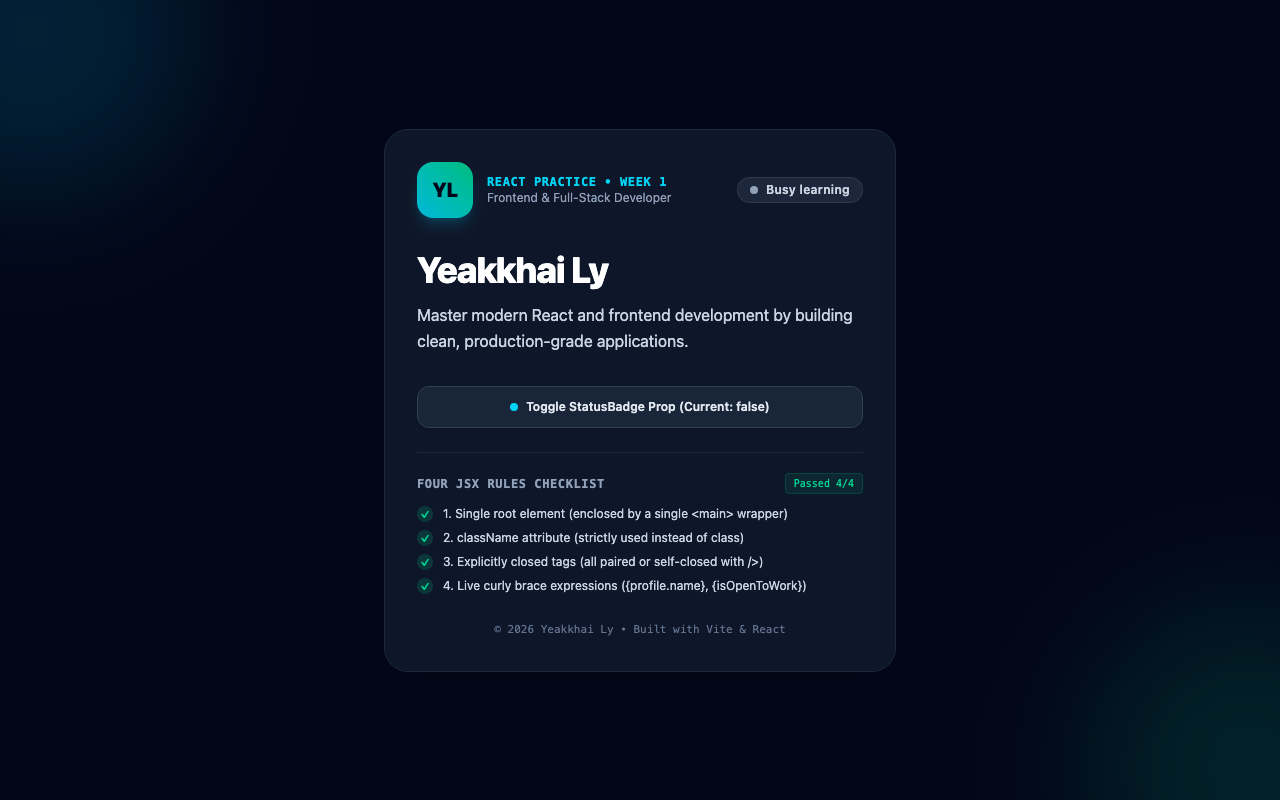
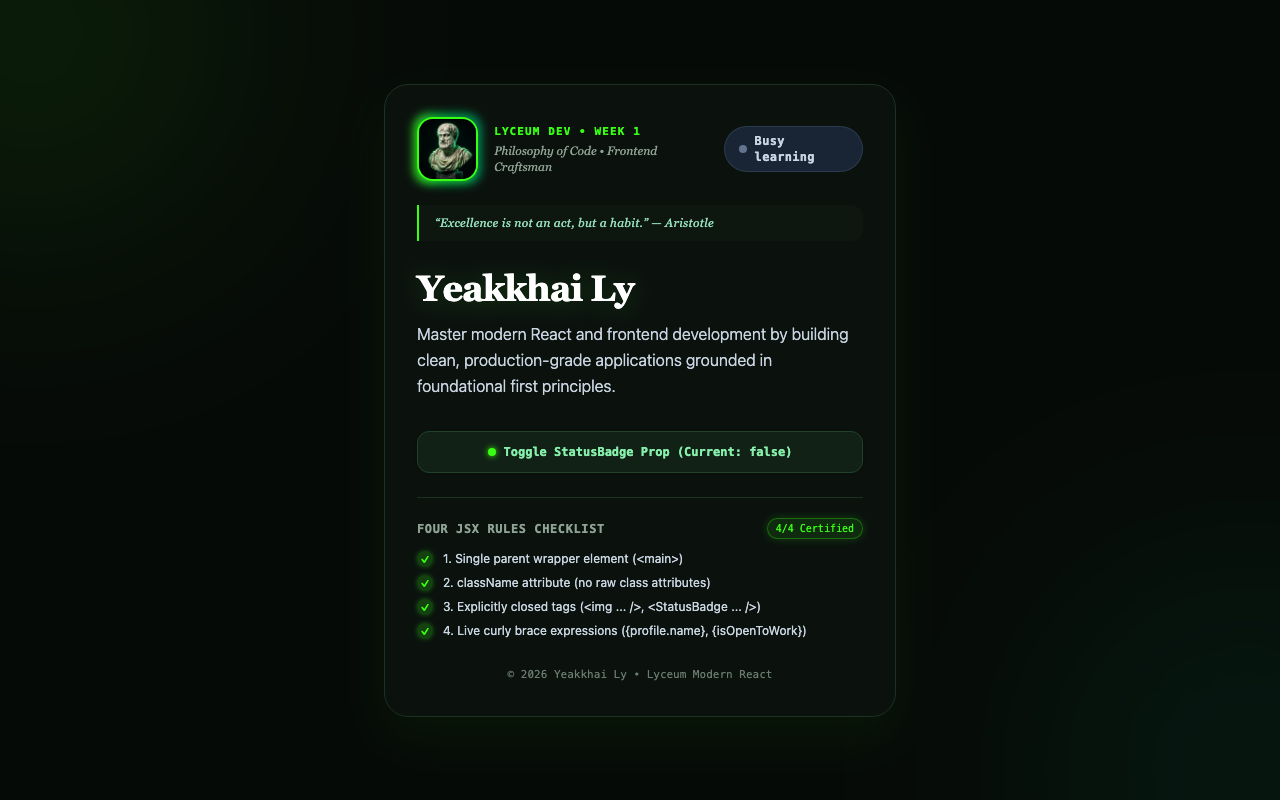
feat: apply Aristotle design theme with custom neon bust and DESIGN.md

Changed region(s): [[0.2812, 0.125, 0.7188, 0.8438], [0.0, 0.0, 0.1875, 0.2812], [0.9375, 0.9062, 1.0, 1.0]]

diff --git a/src/App.jsx b/src/App.jsx
@@ -6,55 +6,69 @@ export default function App() {
 
   const profile = {
     name: "Yeakkhai Ly",
-    role: "Frontend & Full-Stack Developer",
-    goal: "Master modern React and frontend development by building clean, production-grade applications.",
+    title: "Philosophy of Code • Frontend Craftsman",
+    quote: "“Excellence is not an act, but a habit.” — Aristotle",
+    goal: "Master modern React and frontend development by building clean, production-grade applications grounded in foundational first principles.",
     year: new Date().getFullYear(),
   };
 
   return (
-    <main className="min-h-screen bg-slate-950 text-slate-100 flex flex-col items-center justify-center p-6 selection:bg-cyan-500/30 font-sans relative overflow-hidden">
-      {/* Background decorative gradient orbs */}
-      <div className="absolute -top-32 -left-32 w-80 h-80 bg-cyan-500/15 rounded-full blur-3xl pointer-events-none" />
-      <div className="absolute -bottom-32 -right-32 w-80 h-80 bg-emerald-500/15 rounded-full blur-3xl pointer-events-none" />
+    <main className="min-h-screen bg-[#060a07] text-slate-100 flex flex-col items-center justify-center p-6 selection:bg-[#39ff14]/30 relative overflow-hidden font-sans">
+      {/* Background ambient neon orbs */}
+      <div className="absolute -top-40 -left-40 w-96 h-96 bg-[#39ff14]/10 rounded-full blur-[128px] pointer-events-none" />
+      <div className="absolute -bottom-40 -right-40 w-96 h-96 bg-emerald-500/10 rounded-full blur-[128px] pointer-events-none" />
 
-      {/* Main Profile Card Container */}
-      <section className="relative z-10 w-full max-w-lg bg-slate-900/90 backdrop-blur-xl border border-slate-800 rounded-3xl p-8 shadow-2xl space-y-6">
-        {/* Card Header: Avatar & Status Badge */}
-        <div className="flex items-center justify-between">
-          <div className="flex items-center gap-3.5">
-            <div className="w-14 h-14 rounded-2xl bg-gradient-to-tr from-cyan-500 to-emerald-500 flex items-center justify-center text-xl font-black text-slate-950 shadow-lg shadow-cyan-500/20">
-              YL
+      {/* Main Aristotle Theme Card Container */}
+      <section className="relative z-10 w-full max-w-lg bg-[#0b130e]/90 backdrop-blur-2xl border border-[#1b3121] rounded-3xl p-8 shadow-[0_20px_50px_rgba(0,0,0,0.8)] shadow-[#39ff14]/5 space-y-6">
+        
+        {/* Card Header: Aristotle Bust & StatusBadge */}
+        <div className="flex items-center justify-between gap-4">
+          <div className="flex items-center gap-4">
+            <div className="relative group">
+              <div className="absolute -inset-1 bg-gradient-to-r from-[#39ff14] to-emerald-600 rounded-2xl blur-xs opacity-75 group-hover:opacity-100 transition duration-300" />
+              <img
+                src="/aristotle.jpg"
+                alt="Aristotle with Neon Green Cybernetics"
+                className="relative w-16 h-16 rounded-2xl object-cover border-2 border-[#39ff14] shadow-md shadow-[#39ff14]/20"
+              />
             </div>
             <div>
-              <p className="text-xs font-mono uppercase tracking-wider text-cyan-400 font-semibold">
-                React Practice • Week 1
+              <p className="text-[11px] font-mono uppercase tracking-widest text-[#39ff14] font-bold">
+                LYCEUM DEV • WEEK 1
               </p>
-              <p className="text-xs text-slate-400">
-                {profile.role}
+              <p className="text-xs text-[#8fa394] font-serif italic pt-0.5">
+                {profile.title}
               </p>
             </div>
           </div>
           <StatusBadge isOpenToWork={isOpenToWork} />
         </div>
 
+        {/* Aristotle Epigraph */}
+        <div className="bg-[#0f1d13]/60 border-l-2 border-[#39ff14] px-4 py-2.5 rounded-r-xl">
+          <p className="text-xs font-serif italic text-emerald-200/90 tracking-wide">
+            {profile.quote}
+          </p>
+        </div>
+
         {/* Profile Content */}
-        <div className="space-y-3 pt-2">
-          <h1 className="text-3xl sm:text-4xl font-extrabold tracking-tight text-white">
+        <div className="space-y-3 pt-1">
+          <h1 className="text-3xl sm:text-4xl font-serif font-bold tracking-tight text-white drop-shadow-[0_2px_10px_rgba(57,255,20,0.15)]">
             {profile.name}
           </h1>
-          <p className="text-slate-300 text-sm sm:text-base leading-relaxed">
+          <p className="text-slate-300 text-sm sm:text-base leading-relaxed font-light">
             {profile.goal}
           </p>
         </div>
 
-        {/* Interactive Prop Toggle Button */}
+        {/* Interactive Status Toggle */}
         <div className="pt-2">
           <button
             type="button"
             onClick={() => setIsOpenToWork(!isOpenToWork)}
-            className="w-full py-3 px-4 rounded-xl text-xs font-semibold bg-slate-800/80 hover:bg-slate-700/80 active:scale-[0.99] transition-all duration-150 border border-slate-700 text-slate-200 flex items-center justify-center gap-2 cursor-pointer shadow-sm"
+            className="w-full py-3 px-4 rounded-xl text-xs font-mono font-semibold bg-[#112116] hover:bg-[#162e1e] active:scale-[0.99] transition-all duration-200 border border-[#23422a] text-[#86efac] hover:border-[#39ff14]/60 flex items-center justify-center gap-2 cursor-pointer shadow-sm hover:shadow-[0_0_15px_rgba(57,255,20,0.15)]"
           >
-            <span className="w-2 h-2 rounded-full bg-cyan-400" />
+            <span className="w-2 h-2 rounded-full bg-[#39ff14] shadow-[0_0_6px_#39ff14]" />
             <span>
               Toggle StatusBadge Prop (Current: {isOpenToWork ? "true" : "false"})
             </span>
@@ -62,36 +76,36 @@ export default function App() {
         </div>
 
         {/* Four JSX Rules Audit Section */}
-        <div className="border-t border-slate-800 pt-5 space-y-3">
+        <div className="border-t border-[#1b3121] pt-5 space-y-3">
           <div className="flex items-center justify-between">
-            <p className="text-xs font-mono font-semibold uppercase tracking-wider text-slate-400">
+            <p className="text-xs font-mono font-semibold uppercase tracking-wider text-[#8fa394]">
               Four JSX Rules Checklist
             </p>
-            <span className="text-[10px] font-mono px-2 py-0.5 rounded bg-emerald-500/10 text-emerald-400 border border-emerald-500/20">
-              Passed 4/4
+            <span className="text-[10px] font-mono px-2 py-0.5 rounded-full bg-[#39ff14]/10 text-[#39ff14] border border-[#39ff14]/30 shadow-[0_0_8px_rgba(57,255,20,0.2)]">
+              4/4 Certified
             </span>
           </div>
           <ul className="text-xs space-y-2 text-slate-300">
             <li className="flex items-center gap-2.5">
-              <span className="w-4 h-4 rounded-full bg-emerald-500/20 text-emerald-400 flex items-center justify-center text-[10px] font-bold">
+              <span className="w-4 h-4 rounded-full bg-[#39ff14]/20 text-[#39ff14] flex items-center justify-center text-[10px] font-bold shadow-[0_0_5px_rgba(57,255,20,0.3)]">
                 ✓
               </span>
-              <span>1. Single root element (enclosed by a single &lt;main&gt; wrapper)</span>
+              <span>1. Single parent wrapper element (&lt;main&gt;)</span>
             </li>
             <li className="flex items-center gap-2.5">
-              <span className="w-4 h-4 rounded-full bg-emerald-500/20 text-emerald-400 flex items-center justify-center text-[10px] font-bold">
+              <span className="w-4 h-4 rounded-full bg-[#39ff14]/20 text-[#39ff14] flex items-center justify-center text-[10px] font-bold shadow-[0_0_5px_rgba(57,255,20,0.3)]">
                 ✓
               </span>
-              <span>2. className attribute (strictly used instead of class)</span>
+              <span>2. className attribute (no raw class attributes)</span>
             </li>
             <li className="flex items-center gap-2.5">
-              <span className="w-4 h-4 rounded-full bg-emerald-500/20 text-emerald-400 flex items-center justify-center text-[10px] font-bold">
+              <span className="w-4 h-4 rounded-full bg-[#39ff14]/20 text-[#39ff14] flex items-center justify-center text-[10px] font-bold shadow-[0_0_5px_rgba(57,255,20,0.3)]">
                 ✓
               </span>
-              <span>3. Explicitly closed tags (all paired or self-closed with /&gt;)</span>
+              <span>3. Explicitly closed tags (&lt;img ... /&gt;, &lt;StatusBadge ... /&gt;)</span>
             </li>
             <li className="flex items-center gap-2.5">
-              <span className="w-4 h-4 rounded-full bg-emerald-500/20 text-emerald-400 flex items-center justify-center text-[10px] font-bold">
+              <span className="w-4 h-4 rounded-full bg-[#39ff14]/20 text-[#39ff14] flex items-center justify-center text-[10px] font-bold shadow-[0_0_5px_rgba(57,255,20,0.3)]">
                 ✓
               </span>
               <span>4. Live curly brace expressions ({`{profile.name}`}, {`{isOpenToWork}`})</span>
@@ -99,9 +113,9 @@ export default function App() {
           </ul>
         </div>
 
-        {/* Footer */}
-        <footer className="text-center text-[11px] text-slate-500 font-mono pt-1">
-          © {profile.year} {profile.name} • Built with Vite & React
+        {/* Classical Footer */}
+        <footer className="text-center text-[11px] text-[#6b7c70] font-mono pt-1">
+          © {profile.year} {profile.name} • Lyceum Modern React
         </footer>
       </section>
     </main>

diff --git a/src/components/StatusBadge.jsx b/src/components/StatusBadge.jsx
@@ -1,15 +1,17 @@
 export default function StatusBadge({ isOpenToWork }) {
   return (
     <span
-      className={`inline-flex items-center gap-2 px-3 py-1 rounded-full text-xs font-semibold tracking-wide border transition-all duration-200 ${
+      className={`inline-flex items-center gap-2 px-3.5 py-1.5 rounded-full text-xs font-mono font-semibold tracking-wide border transition-all duration-300 ${
         isOpenToWork
-          ? "bg-emerald-500/15 text-emerald-400 border-emerald-500/30 shadow-xs shadow-emerald-500/10"
-          : "bg-slate-700/40 text-slate-300 border-slate-600/40"
+          ? "bg-[#39ff14]/15 text-[#39ff14] border-[#39ff14]/40 shadow-md shadow-[#39ff14]/20"
+          : "bg-slate-800/80 text-slate-300 border-slate-700/80"
       }`}
     >
       <span
         className={`w-2 h-2 rounded-full ${
-          isOpenToWork ? "bg-emerald-400 animate-pulse" : "bg-slate-400"
+          isOpenToWork
+            ? "bg-[#39ff14] shadow-[0_0_8px_#39ff14] animate-pulse"
+            : "bg-slate-500"
         }`}
       />
       {isOpenToWork ? "Open to work" : "Busy learning"}

diff --git a/DESIGN.md b/DESIGN.md
@@ -1,0 +1,68 @@
+# Design System: Neo-Classical Cyber-Lyceum
+
+**Theme:** Aristotle Classical Philosophy × Electric Neon Green  
+**Author:** Yeakkhai Ly & AI Co-pilot  
+**Version:** 1.0.0  
+**Project:** Week 1 Developer Portfolio  
+
+---
+
+## 🏛 Visual Thesis
+
+> *"We are what we repeatedly do. Excellence, then, is not an act, but a habit."* — Aristotle
+
+**Neo-Classical Cyber-Lyceum** blends the intellectual gravitas and sculptural permanence of ancient Greek philosophy (marble busts, classical proportions, etched geometric lines) with the electric vitality of modern high-tech engineering (obsidian dark mode, glowing phosphor neon green `#39ff14` / `#00ff66`, and terminal monospace data tags).
+
+---
+
+## 🎨 Color Palette
+
+| Role | Name | Hex / CSS Token | Description |
+| :--- | :--- | :--- | :--- |
+| **Canvas Background** | Void Obsidian | `#050806` / `bg-[#050806]` | Deepest obsidian black with subtle jade undertones |
+| **Surface Card** | Lyceum Stone | `#0c140e` / `bg-[#0c140e]/90` | Translucent dark marble slab with backdrop blur |
+| **Card Border** | Archaic Chisel | `#1c2e21` / `border-[#1c2e21]` | Subtle chiseled stone borders with neon green hints |
+| **Primary Accent** | Electric Lyceum Green | `#39ff14` / `text-[#39ff14]` | Pure high-voltage neon green for focal highlights |
+| **Secondary Glow** | Phosphor Mint | `#10b981` / `#86efac` | Softened green for status badges, dots, and highlights |
+| **Text Primary** | Parian Marble | `#f4f6f4` / `text-[#f4f6f4]` | High-contrast warm classical marble white |
+| **Text Muted** | Weathered Inscription | `#8fa394` / `text-[#8fa394]` | Ancient carved stone patina for secondary descriptions |
+
+---
+
+## 🔤 Typography & Hierarchy
+
+1. **Display & Headings (Classical Gravitas):**
+   - High-contrast serif with classical Greco-Roman proportions (`font-serif`, Georgia / Playfair / Cinzel fallback).
+   - Conveys philosophical weight, intellectual authority, and enduring craftsmanship.
+
+2. **Body & Prose (Clear Geometry):**
+   - Clean, highly legible modern geometric sans (`font-sans`, Inter / system-ui).
+   - Generous line height (`leading-relaxed`) for effortless readability.
+
+3. **Metadata, Tags & Rules (Technical Monospace):**
+   - Precision developer monospace (`font-mono`, ui-monospace / SFMono).
+   - Formatted in uppercase with letter tracking (`tracking-widest`) for an architectural, computational feel.
+
+---
+
+## 🖼 Imagery & Art Direction
+
+- **Hero Visual:** Classical sculpted marble bust of Aristotle, adorned with glowing neon green circuit traces and electric rim lighting.
+- **Lighting Dynamics:** Ambient radial neon gradients (`bg-[#39ff14]/10` and `bg-emerald-500/10`) positioned behind the card to create a sacred digital halo.
+- **Micro-Decorations:** Greek architectural motifs, thin chiseled divider lines, and philosophical motto badges.
+
+---
+
+## 🧩 Component Specifications
+
+### 1. `StatusBadge` (Ternary Logic)
+- **Open to work:** High-voltage neon green badge (`bg-[#39ff14]/15 text-[#39ff14] border-[#39ff14]/40 shadow-lg shadow-[#39ff14]/20`) with a pulsating emerald core.
+- **Busy learning:** Weathered slate stone badge (`bg-slate-800/80 text-slate-300 border-slate-700`) with a quiet stone indicator.
+
+### 2. `ProfileCard`
+- Floating frosted obsidian monolith with rounded corners (`rounded-3xl`), double-border effect (`border border-[#1c2e21]`), and a soft green drop shadow.
+- Prominent Aristotle bust avatar with glowing neon halo.
+
+### 3. Four JSX Rules Audit Box
+- Structured like an ancient philosophical treatise or scientific theorem.
+- Neon checkmarks indicating mathematical / grammatical correctness in JSX.
